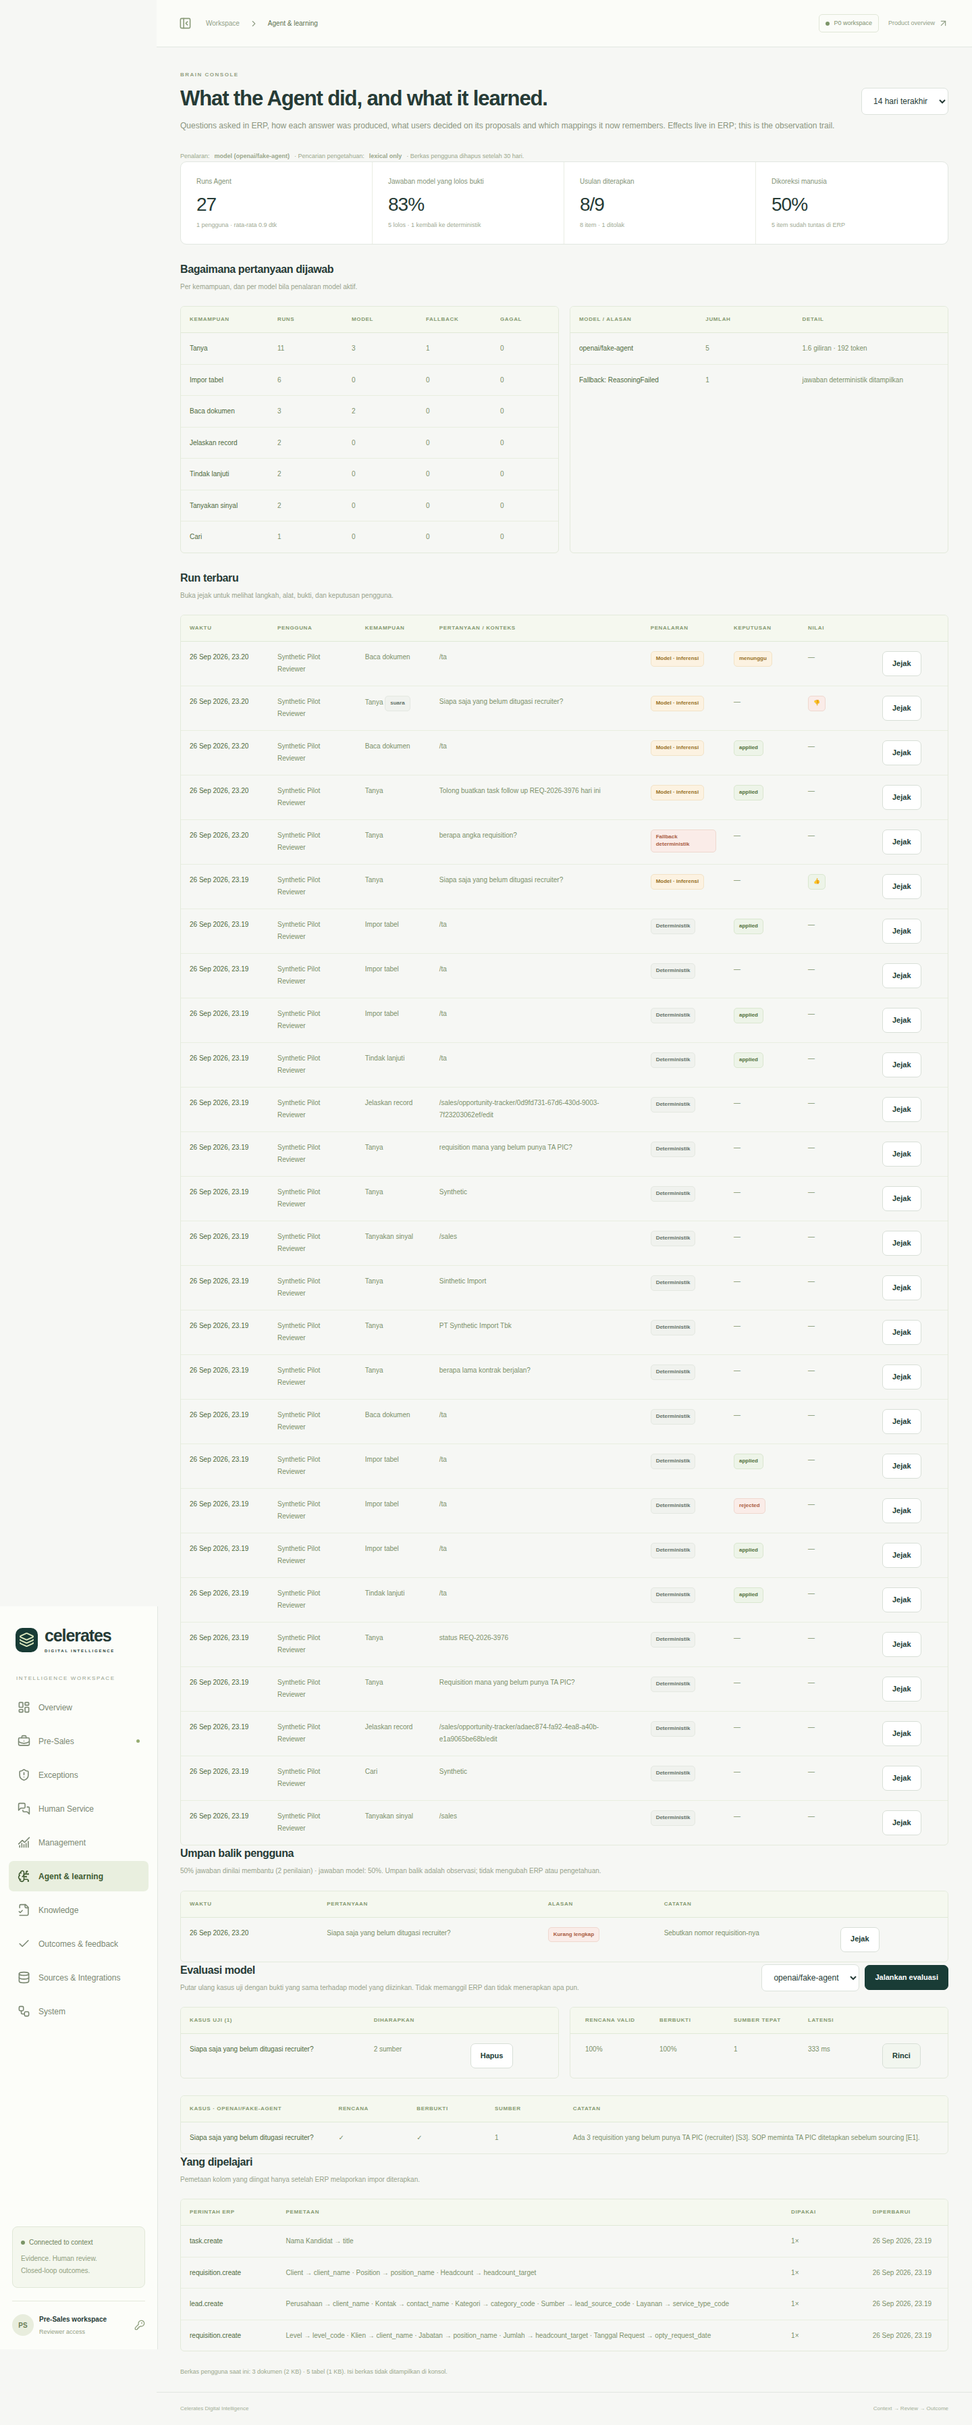
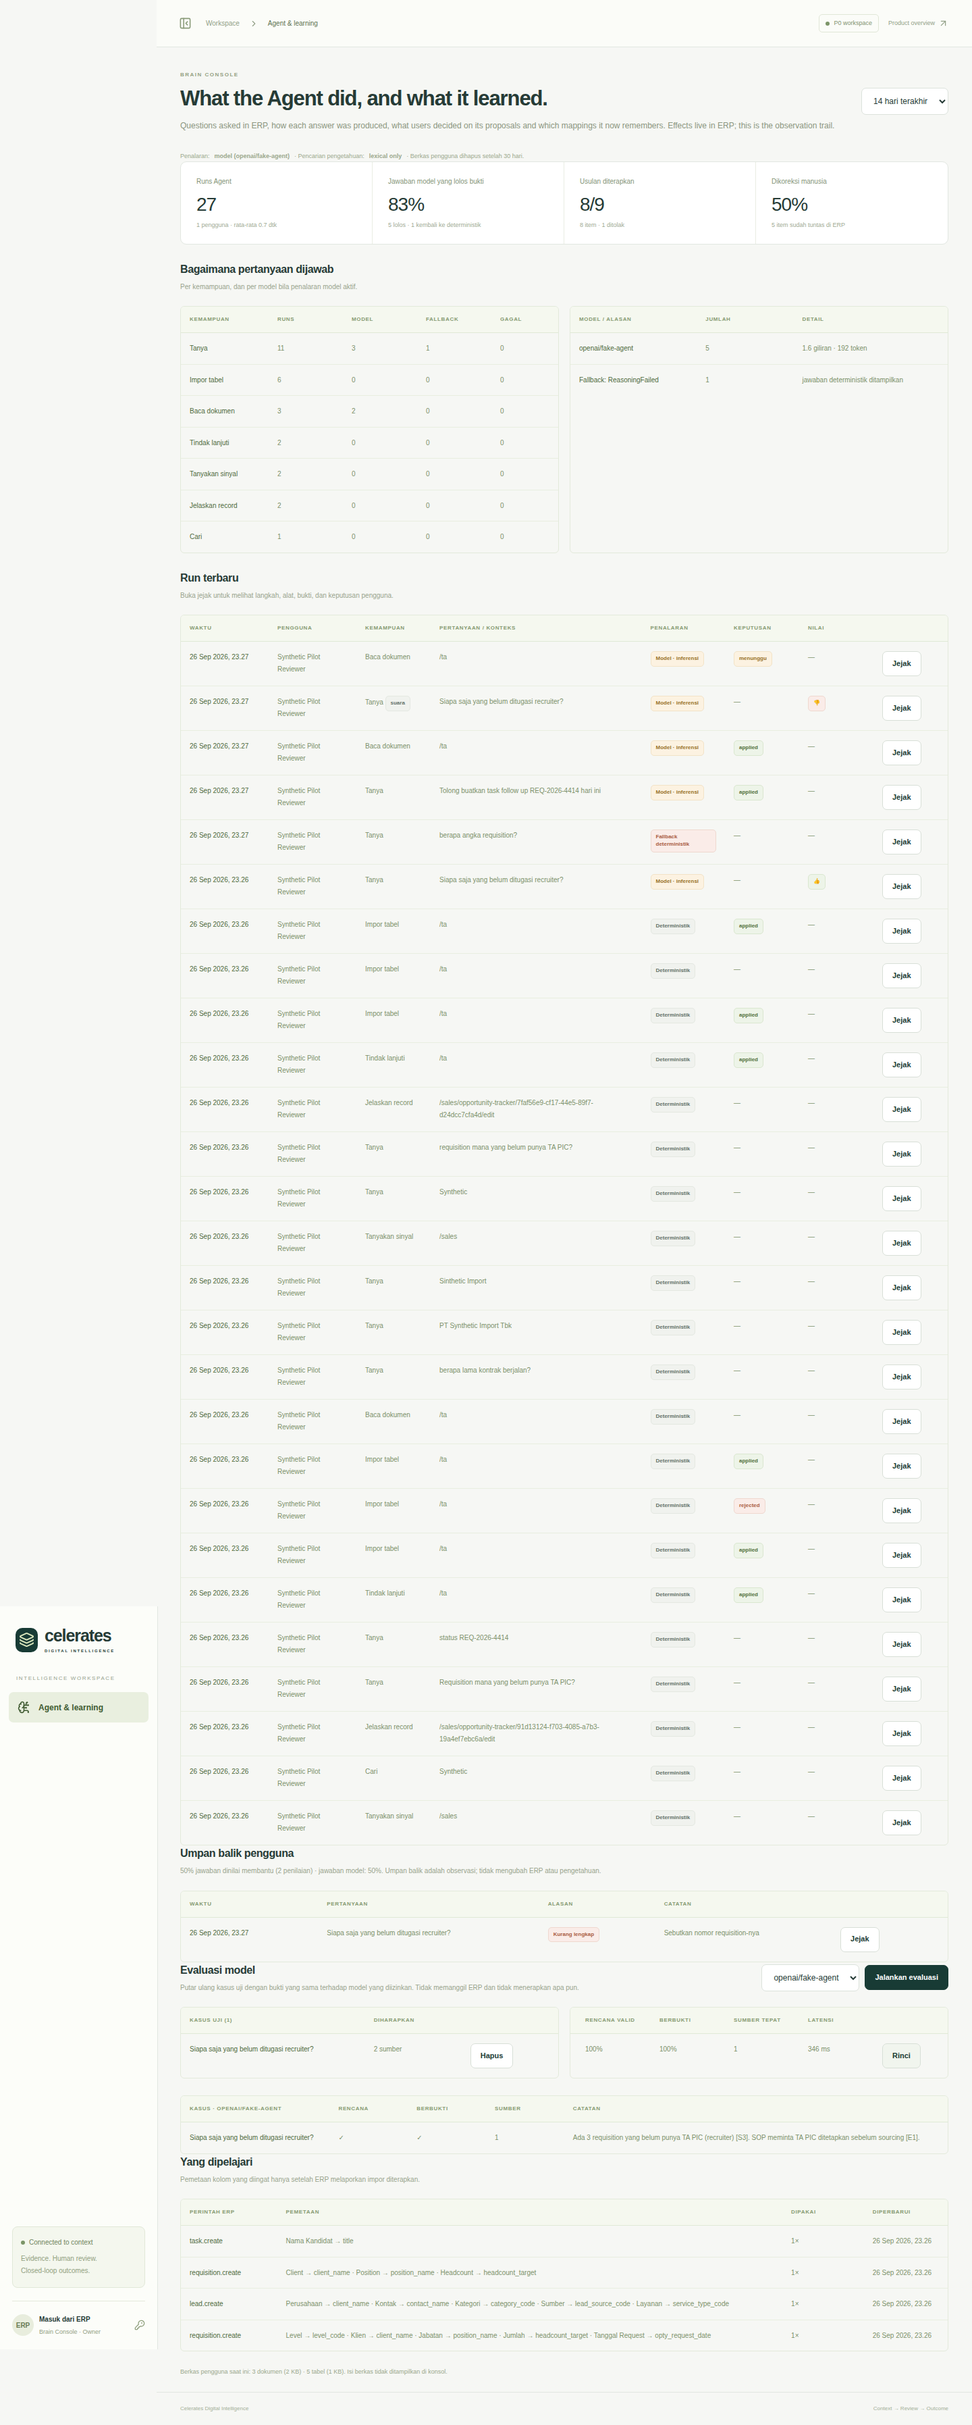
Brain Console: ERP sign-in for Owners (ADR-016)
- ERP GET /api/agent/console mints a console-scoped Ed25519 assertion
  (aud celerates-intelligence-console, scope console, 2 h, Owner only) and
  303s to the Intelligence web with it in the URL fragment
- Intelligence console routes accept a curator workspace token or a verified
  console sign-in; it is neither a workspace principal nor an Agent delegation
- Web consumes the fragment into sessionStorage, strips it from history and
  shows only Agent & learning; ERP panel shows Owners a Brain Console link
- Tests: Python scope/expiry/forgery/non-owner, ERP minting, harness redirect
  and browser sign-in into the console

Claude-Session: https://claude.ai/code/session_018uqVbsnJ9vwHss2qzHRD6U

Changed region(s): [[0.0, 0.7487, 0.1562, 0.7799], [0.0, 0.6864, 0.1562, 0.7175]]

diff --git a/apps/erp/tests/agent.test.ts b/apps/erp/tests/agent.test.ts
@@ -6,7 +6,7 @@ import { PGLiteSocketServer } from "@electric-sql/pglite-socket";
 import postgres from "postgres";
 import { EventSchemas } from "@ag-ui/core/schemas";
 import { CATALOG, entityTypes, hrefFor, publicCatalog, resolvePageEntity } from "../src/lib/agent/catalog";
-import { DelegationError, mintDelegation, verifyDelegation } from "../src/lib/agent/delegation";
+import { CONSOLE_AUDIENCE, DelegationError, mintConsoleSignIn, mintDelegation, verifyDelegation } from "../src/lib/agent/delegation";
 import { applyEvent, newRun, toThreadMessages } from "../src/lib/agent/run-state";
 import { readEntity, readEntitySignals, readNeighbours, search, searchTerms, loadActor, AgentReadError } from "../src/lib/agent/reads";
 import { readOperationalContext, readSignal, checkSignals } from "../src/lib/operations/reader";
@@ -30,6 +30,14 @@ test("ERP delegation: Ed25519, short-lived, issuer/audience bound, rotation-awar
   process.env.INTELLIGENCE_ENVIRONMENT = "unit";
   const token = mintDelegation(user, ctx);
   const claims = verifyDelegation(token);
+  // Brain Console sign-in (ADR-016): Owner only, console audience and scope, 2 hours; never an Agent delegation.
+  const signIn = mintConsoleSignIn({ id: ID, name: "Owner", owner: true });
+  const signInClaims = JSON.parse(Buffer.from(signIn.split(".")[1], "base64url").toString());
+  assert.equal(signInClaims.aud, CONSOLE_AUDIENCE);
+  assert.deepEqual(signInClaims.scope, ["console"]);
+  assert.equal(signInClaims.exp - signInClaims.iat, 7200);
+  assert.throws(() => verifyDelegation(signIn), DelegationError, "a console sign-in is not a delegation");
+  assert.throws(() => mintConsoleSignIn({ id: ID, name: "Viewer", owner: false }), DelegationError);
   assert.equal(claims.sub, ID);
   assert.equal(claims.iss, "celerates-erp:unit");
   assert.equal(claims.aud, "celerates-intelligence");

diff --git a/apps/web/src/App.tsx b/apps/web/src/App.tsx
@@ -353,6 +353,9 @@ function Shell() {
   const [collapsed, setCollapsed] = useState(false);
   const [access, setAccess] = useState(false);
   const [token, setToken] = useState(sessionStorage.getItem("cdi-token") || "");
+  // Signed in from ERP: the console-scoped assertion opens the Brain Console only (ADR-016).
+  const erpSignIn = sessionStorage.getItem("cdi-signin") === "erp";
+  const visibleNav = erpSignIn ? nav.filter(([path]) => path === "/app/agent") : nav;
   const current =
     nav.find(([path]) => path === location.pathname)?.[1] || "Workspace";
   return (
@@ -370,7 +373,7 @@ function Shell() {
         </div>
         <div className="workspace-label">INTELLIGENCE WORKSPACE</div>
         <nav>
-          {nav.map(([path, label, Icon]) => (
+          {visibleNav.map(([path, label, Icon]) => (
             <NavLink
               to={path}
               end
@@ -395,10 +398,10 @@ function Shell() {
             </p>
           </div>
           <button className="profile" onClick={() => setAccess(true)}>
-            <span className="avatar">PS</span>
+            <span className="avatar">{erpSignIn ? "ERP" : "PS"}</span>
             <span>
-              <strong>Pre-Sales workspace</strong>
-              <small>Reviewer access</small>
+              <strong>{erpSignIn ? "Masuk dari ERP" : "Pre-Sales workspace"}</strong>
+              <small>{erpSignIn ? "Brain Console · Owner" : "Reviewer access"}</small>
             </span>
             <KeyRound size={16} />
           </button>
@@ -481,6 +484,7 @@ function Shell() {
               token
                 ? sessionStorage.setItem("cdi-token", token)
                 : sessionStorage.removeItem("cdi-token");
+              sessionStorage.removeItem("cdi-signin");
               location.pathname;
               window.location.reload();
             }}

diff --git a/apps/erp/src/app/api/agent/console/route.ts b/apps/erp/src/app/api/agent/console/route.ts
@@ -1,0 +1,28 @@
+// ERP sign-in to the Brain Console (ADR-016). The session Owner gets a short-lived, console-scoped assertion signed
+// by ERP, handed to the Intelligence web in the URL fragment (never sent to a server by the browser).
+import { NextResponse } from "next/server";
+import { agentActor, agentEnabled, BffError } from "@/lib/agent/bff";
+import { mintConsoleSignIn } from "@/lib/agent/delegation";
+export const dynamic = "force-dynamic";
+const headers = { "Cache-Control": "private, no-store", Vary: "Cookie", "Referrer-Policy": "no-referrer" };
+function consoleUrl(): string | null {
+  const raw = process.env.INTELLIGENCE_CONSOLE_URL || process.env.INTELLIGENCE_BASE_URL;
+  if (!raw) return null;
+  const url = new URL(raw);
+  if (!["http:", "https:"].includes(url.protocol) || url.username || url.password) return null;
+  return url.origin;
+}
+export async function GET() {
+  try {
+    const actor = await agentActor();
+    const origin = consoleUrl();
+    if (!agentEnabled() || !origin) throw new BffError(503, "Brain Console belum dikonfigurasi.");
+    if (actor.isOwner !== true) throw new BffError(403, "Brain Console hanya untuk Owner.");
+    const token = mintConsoleSignIn({ id: actor.id, name: actor.name, owner: true });
+    return NextResponse.redirect(`${origin}/app/agent#erp_token=${token}`, { status: 303, headers });
+  } catch (error) {
+    if (error instanceof BffError) return NextResponse.json({ error: error.message }, { status: error.status, headers });
+    console.error("agent_console_signin_failed");
+    return NextResponse.json({ error: "Brain Console belum dapat dibuka." }, { status: 503, headers });
+  }
+}

diff --git a/apps/erp/src/lib/agent/delegation.ts b/apps/erp/src/lib/agent/delegation.ts
@@ -86,6 +86,19 @@ export function mintDelegation(
   return `${head}.${body}.${b64(sign(null, Buffer.from(`${head}.${body}`), signer.key))}`;
 }
 
+/** ERP sign-in to the Brain Console (ADR-016): Owner only, separate audience and scope, 2 hours. */
+export const CONSOLE_AUDIENCE = "celerates-intelligence-console";
+const CONSOLE_TTL_SECONDS = 2 * 3600;
+export function mintConsoleSignIn(user: { id: string; name: string; owner: boolean }, now = Math.floor(Date.now() / 1000)): string {
+  const signer = privateKey();
+  if (!signer) throw new DelegationError("Agent delegation is not configured");
+  if (!user.owner) throw new DelegationError("Brain Console sign-in is for ERP Owners");
+  const claims = { iss: issuer(), aud: CONSOLE_AUDIENCE, sub: user.id, name: user.name.slice(0, 120), owner: true, scope: ["console"], iat: now, exp: now + CONSOLE_TTL_SECONDS, jti: randomUUID() };
+  const head = b64(JSON.stringify({ alg: "EdDSA", typ: "JWT", kid: signer.kid }));
+  const body = b64(JSON.stringify(claims));
+  return `${head}.${body}.${b64(sign(null, Buffer.from(`${head}.${body}`), signer.key))}`;
+}
+
 export function verifyDelegation(token: string | null, now = Math.floor(Date.now() / 1000)): DelegationClaims {
   if (!token || token.length > 8192 || !/^[A-Za-z0-9_-]+\.[A-Za-z0-9_-]+\.[A-Za-z0-9_-]+$/.test(token))
     throw new DelegationError("Malformed delegation");

diff --git a/apps/erp/src/components/agent/agent-panel.tsx b/apps/erp/src/components/agent/agent-panel.tsx
@@ -34,6 +34,7 @@ type AgentContext = {
   context: { path: string; module: string; label: string };
   entity: { type: string; type_label: string; id: string; label: string; href: string } | null;
   capabilities?: { reasoning: string; voice: boolean };
+  console?: boolean;
 };
 
 function uuid() {
@@ -294,6 +295,11 @@ export function AgentPanel() {
                         </details>
                       )}
                     </>
+                  )}
+                  {agentContext?.console && (
+                    <a href="/api/agent/console" target="_blank" rel="noopener" className="block text-right text-xs font-semibold text-brand-600 hover:underline" data-agent-console-link>
+                      Brain Console: kualitas &amp; pembelajaran Agent →
+                    </a>
                   )}
                   {agentReady && <FollowUps refresh={refresh + runs.filter((r) => r.status !== "running").length} />}
                   <button onClick={() => setTab("feedback")} className="w-full rounded-xl border border-pink-200 bg-pink-50 px-4 py-3 text-left text-sm font-medium text-pink-800">

diff --git a/apps/erp/src/app/api/agent/context/route.ts b/apps/erp/src/app/api/agent/context/route.ts
@@ -7,7 +7,10 @@ export async function GET(request: NextRequest) {
   try {
     const actor = await agentActor();
     const result = await pageContext(actor, request.nextUrl.searchParams.get("path") || "/");
-    return NextResponse.json({ version: 1, enabled: agentEnabled(), capabilities: await agentCapabilities(actor), ...result }, { headers });
+    return NextResponse.json(
+      { version: 1, enabled: agentEnabled(), capabilities: await agentCapabilities(actor), console: agentEnabled() && actor.isOwner === true, ...result },
+      { headers },
+    );
   } catch (error) {
     if (error instanceof BffError) return NextResponse.json({ error: error.message }, { status: error.status, headers });
     console.error("agent_context_failed");

diff --git a/apps/web/src/main.tsx b/apps/web/src/main.tsx
@@ -3,6 +3,14 @@ import ReactDOM from "react-dom/client";
 import { BrowserRouter } from "react-router-dom";
 import { App } from "./App";
 import "./styles.css";
+
+// ERP sign-in to the Brain Console (ADR-016): ERP hands a console-scoped assertion in the URL fragment. Keep it for
+// this browser tab only and remove it from the address bar and history.
+if (location.hash.startsWith("#erp_token=")) {
+  sessionStorage.setItem("cdi-token", decodeURIComponent(location.hash.slice("#erp_token=".length)));
+  sessionStorage.setItem("cdi-signin", "erp");
+  history.replaceState(null, "", location.pathname + location.search);
+}
 ReactDOM.createRoot(document.getElementById("root")!).render(
   <React.StrictMode>
     <BrowserRouter>

diff --git a/services/intelligence-api/cdi/delegation.py b/services/intelligence-api/cdi/delegation.py
@@ -16,6 +16,9 @@ from .identity import Principal
 
 AUDIENCE = "celerates-intelligence"
 MAX_LIFETIME = 600
+# ERP sign-in to the Brain Console (ADR-016): a separate audience and scope, longer-lived, Owner only.
+CONSOLE_AUDIENCE = "celerates-intelligence-console"
+CONSOLE_MAX_LIFETIME = 8 * 3600
 SKEW = 30
 UUID = re.compile(r"^[0-9a-f]{8}-[0-9a-f]{4}-[1-8][0-9a-f]{3}-[89ab][0-9a-f]{3}-[0-9a-f]{12}$")
 ALL_DIVISIONS = {"marketing", "sales", "ta", "hr", "tm", "pmo", "finance", "timesheet", "attendance", "school"}
@@ -44,7 +47,7 @@ def _keys():
     return keys
 
 
-def verify(token, now=None):
+def verify(token, now=None, audience=AUDIENCE, scope="agent", max_lifetime=MAX_LIFETIME):
     """Return verified claims or raise DelegationError. Never trusts unsigned header content beyond kid lookup."""
     if not token or len(token) > 8192 or token.count(".") != 2:
         raise DelegationError("Malformed delegation")
@@ -61,14 +64,14 @@ def verify(token, now=None):
         raise DelegationError("Invalid delegation signature") from exc
     claims = stdjson.loads(_b64(body))
     now = int(now if now is not None else time.time())
-    if claims.get("iss") != f"celerates-erp:{settings().erp_environment}" or claims.get("aud") != AUDIENCE:
+    if claims.get("iss") != f"celerates-erp:{settings().erp_environment}" or claims.get("aud") != audience:
         raise DelegationError("Delegation issuer or audience mismatch")
     iat, exp = claims.get("iat"), claims.get("exp")
-    if not isinstance(iat, int) or not isinstance(exp, int) or exp <= iat or exp - iat > MAX_LIFETIME:
+    if not isinstance(iat, int) or not isinstance(exp, int) or exp <= iat or exp - iat > max_lifetime:
         raise DelegationError("Invalid delegation lifetime")
     if iat > now + SKEW or exp < now - SKEW:
         raise DelegationError("Delegation expired")
-    if "agent" not in (claims.get("scope") or []) or not UUID.match(str(claims.get("sub", ""))):
+    if scope not in (claims.get("scope") or []) or not UUID.match(str(claims.get("sub", ""))):
         raise DelegationError("Delegation scope or subject invalid")
     if not isinstance(claims.get("jti"), str) or not 8 <= len(claims["jti"]) <= 100:
         raise DelegationError("Delegation id invalid")
@@ -105,3 +108,20 @@ def delegated_actor(x_erp_delegation: Annotated[str | None, Header()] = None):
     except (DelegationError, ValueError, TypeError) as exc:
         raise HTTPException(401, "A valid ERP delegation is required") from exc
     return DelegatedPrincipal(claims, x_erp_delegation)
+
+
+def verify_console(token, now=None):
+    """ERP-issued Brain Console sign-in (ADR-016). Only ERP Owners are issued one; checked again here."""
+    claims = verify(token, now, audience=CONSOLE_AUDIENCE, scope="console", max_lifetime=CONSOLE_MAX_LIFETIME)
+    if claims.get("owner") is not True:
+        raise DelegationError("Brain Console sign-in requires an ERP Owner")
+    return claims
+
+
+def console_principal(claims):
+    """Curator of the Brain Console only. Not a workspace principal: Pre-Sales review and knowledge approval still
+    require a named workspace token."""
+    name = str(claims.get("name") or "ERP Owner")[:100]
+    principal = Principal(f"{name} (ERP)", ["curator"], ALL_DIVISIONS, True)
+    principal.sub = claims["sub"]
+    return principal

diff --git a/services/intelligence-api/tests/test_agent.py b/services/intelligence-api/tests/test_agent.py
@@ -1186,3 +1186,37 @@ def test_quality_loop_feedback_cases_and_replay_evaluation(monkeypatch):
             conn.execute("UPDATE agent_model_turns SET recorded_at=now()-interval '400 days'")
         quality.purge_turns()
         assert quality.turns(run_id), "case evidence kept"
+
+
+def test_erp_owner_sign_in_to_brain_console_is_scoped_to_the_console(monkeypatch):
+    monkeypatch.setattr(
+        settings(),
+        "intelligence_principals_json",
+        json.dumps([{"id": "x", "token_sha256": "0" * 64, "roles": ["reviewer"], "divisions": []}]),
+    )
+    now = int(time.time())
+    console = mint(aud="celerates-intelligence-console", scope=["console"], exp=now + 7200)
+    with TestClient(app) as c:
+        ok = c.get("/api/console/agent", headers={"Authorization": "Bearer " + console})
+        assert ok.status_code == 200, ok.text
+        for bad in (
+            mint(aud="celerates-intelligence-console", scope=["console"], exp=now + 7200, owner=False),  # not Owner
+            mint(
+                aud="celerates-intelligence-console", scope=["console"], iat=now - 9 * 3600, exp=now - 3600
+            ),  # expired
+            mint(aud="celerates-intelligence-console", scope=["console"], exp=now + 9 * 3600),  # too long-lived
+            mint(),  # an Agent delegation is not a console sign-in
+            mint(aud="celerates-intelligence-console", scope=["agent"], exp=now + 7200),
+            mint(key=OTHER, aud="celerates-intelligence-console", scope=["console"], exp=now + 7200),  # forged
+        ):
+            assert c.get("/api/console/agent", headers={"Authorization": "Bearer " + bad}).status_code == 401
+        # The console sign-in is not a workspace credential nor an Agent delegation.
+        assert c.get("/api/knowledge", headers={"Authorization": "Bearer " + console}).status_code == 401
+        assert (
+            c.post(
+                "/api/agent/runs",
+                json={"skill": "search", "args": {"query": "abc"}},
+                headers={"X-ERP-Delegation": console},
+            ).status_code
+            == 401
+        )

diff --git a/services/intelligence-api/cdi/agent/console.py b/services/intelligence-api/cdi/agent/console.py
@@ -8,7 +8,7 @@ Curator role only: the view shows users' questions and decisions. Dataset conten
 from typing import Annotated
 from uuid import UUID
 
-from fastapi import APIRouter, Depends, HTTPException, Query
+from fastapi import APIRouter, Depends, Header, HTTPException, Query
 from pydantic import BaseModel, ConfigDict, Field
 
 from ..config import settings
@@ -19,8 +19,17 @@ from . import quality
 router = APIRouter(prefix="/api/console/agent")
 
 
-def curator(user=Depends(actor)):
-    return user.require("curator")
+def curator(authorization: Annotated[str | None, Header()] = None):
+    """Curators: a named workspace token with the curator role, or an ERP Owner signed in from ERP (ADR-016)."""
+    from ..delegation import DelegationError, console_principal, verify_console
+
+    token = (authorization or "").removeprefix("Bearer ")
+    if token.count(".") == 2:
+        try:
+            return console_principal(verify_console(token))
+        except (DelegationError, ValueError, TypeError) as exc:
+            raise HTTPException(401, "ERP sign-in expired or invalid; open the Brain Console from ERP again") from exc
+    return actor(authorization).require("curator")
 
 
 def _summary(conn, days):

diff --git a/docs/adr/ADR-016-erp-sign-in-to-brain-console.md b/docs/adr/ADR-016-erp-sign-in-to-brain-console.md
@@ -1,0 +1,28 @@
+# ADR-016 — ERP sign-in to the Brain Console
+
+Status: accepted (2026-09-26). Extends ADR-008 (ERP-issued user delegation).
+
+## Context
+
+The Brain Console's Agent & learning view — runs, feedback, evaluation — is for managers who work in ERP. Until now it needed a shared workspace token. Sharing that token is a distribution and revocation problem, and it also grants Pre-Sales review and knowledge approval.
+
+## Decision
+
+1. **ERP issues a console sign-in to Owners.**
+   - `GET /api/agent/console` (ERP session, Owner only) mints an Ed25519 assertion with the same key as ADR-008:
+     - `aud = celerates-intelligence-console`;
+     - `scope = ["console"]`;
+     - lifetime 2 h (Intelligence accepts at most 8 h).
+   - ERP answers with a `303` to `{INTELLIGENCE_CONSOLE_URL or INTELLIGENCE_BASE_URL}/app/agent#erp_token=…`.
+   - The token is in the URL fragment, which browsers never send to a server. The Intelligence web stores it for the tab (`sessionStorage`) and removes it from the address bar and history.
+2. **Intelligence accepts it only for the Brain Console Agent views.**
+   - The console routes accept either a curator workspace token or a verified console sign-in: issuer, audience, scope, lifetime and Owner flag are all checked.
+   - The sign-in is **not** a workspace principal, so Pre-Sales review and knowledge approval still require a named workspace token.
+   - It is **not** an Agent delegation (different audience and scope).
+3. **The web shows only Agent & learning** for an ERP sign-in. The ERP Agent panel shows Owners a *Brain Console* link.
+
+## Consequences
+
+- Managers open the console from ERP with their own identity. Revoking ERP access stops new sign-ins, and an issued sign-in expires within 2 hours.
+- There is no revocation list for already-issued sign-ins. The short lifetime bounds exposure, and a denylist by `jti` can be added if needed.
+- No new secret: the existing delegation key pair signs and verifies.
